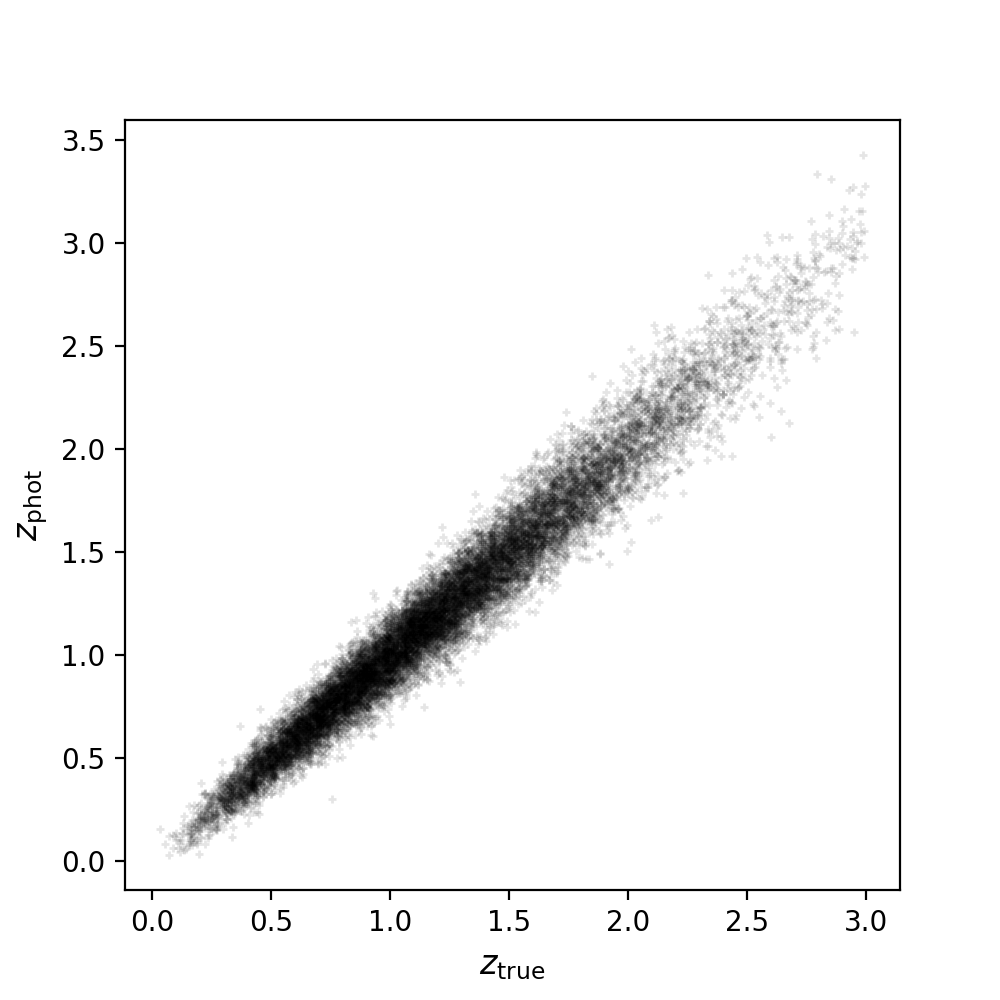
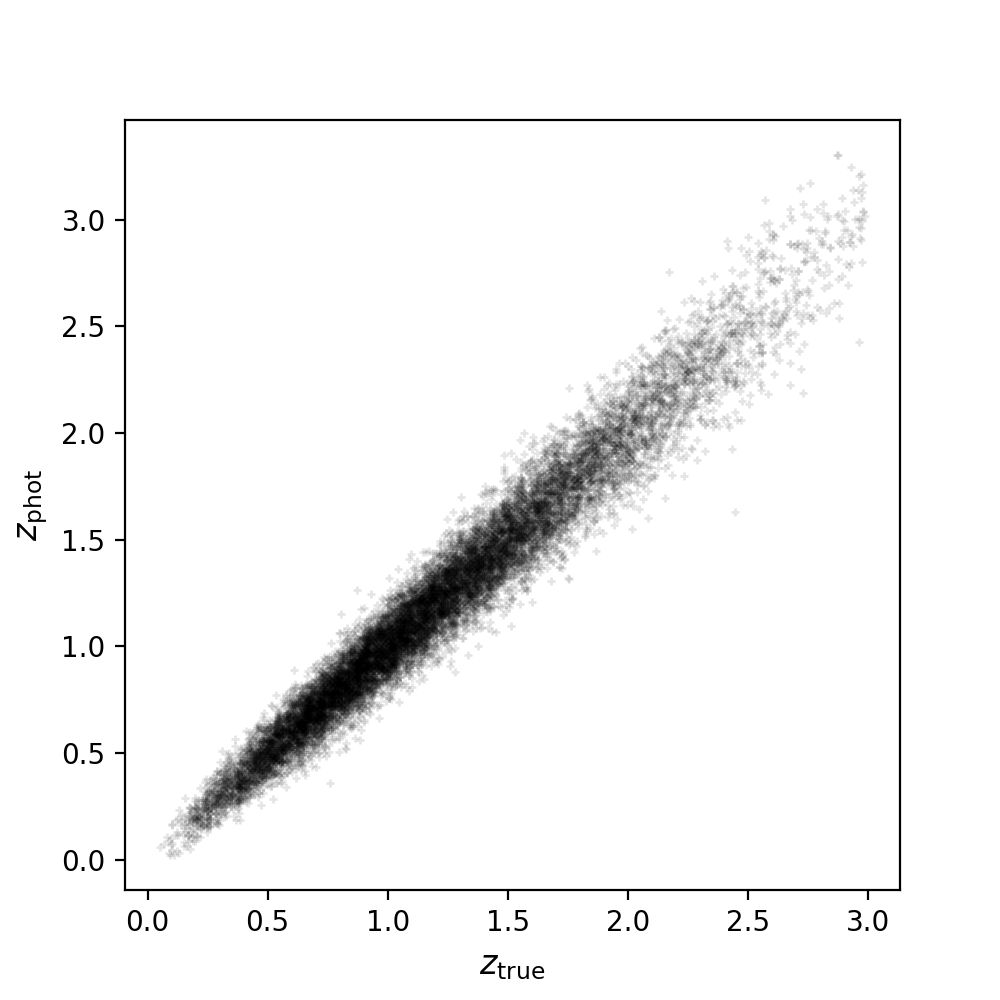
simpler example

diff --git a/examples/1_basic/photoz.py b/examples/1_basic/photoz.py
@@ -9,24 +9,16 @@ This example simulates galaxies with a simple photometric redshift model.
 # %%
 # Setup
 # -----
-# Set up a galaxy positions-only GLASS simulation.  It needs very little:
-# a way to obtain matter angular power spectra (here: CAMB) and a redshift
-# distribution of galaxies to sample from (here: uniform in volume).  Then add
-# a model for photometric redshifts with Gaussian errors.
+# The simplest galaxies-only GLASS simulation, sampling galaxies uniformly over
+# the sphere using some redshift distribution.  Then add a model for photometric
+# redshifts with Gaussian errors.
 
 import numpy as np
 import matplotlib.pyplot as plt
 
-# these are the GLASS imports: cosmology and the glass meta-module
-from cosmology import LCDM
+# these are the GLASS imports: only the glass meta-module
 from glass import glass
 
-# also needs camb itself to get the parameter object
-import camb
-
-
-# cosmology for the simulation
-cosmo = LCDM(h=0.7, Om=0.3)
 
 # basic parameters of the simulation
 nside = 128
@@ -42,15 +34,10 @@ phz_sigma_0 = 0.05
 z = np.linspace(0, 3, 301)
 dndz = n_arcmin2*glass.observations.smail_nz(z, 1.0, 2.2, 1.5)
 
-# set up CAMB parameters for matter angular power spectrum
-pars = camb.set_params(H0=100*cosmo.h, omch2=cosmo.Om*cosmo.h**2)
-
-# generators for a galaxies-only simulation
+# generators for a uniform galaxies simulation
 generators = [
     glass.sim.zspace(z[0], z[-1]+0.01, dz=0.25),
-    glass.camb.camb_matter_cl(pars, lmax),
-    glass.matter.lognormal_matter(nside),
-    glass.galaxies.gal_dist_fullsky(z, dndz),
+    glass.galaxies.gal_dist_uniform(z, dndz),
     glass.galaxies.gal_phz_gausserr(phz_sigma_0),
 ]
 
@@ -64,7 +51,7 @@ generators = [
 ztrue = np.empty(0)
 zphot = np.empty(0)
 
-# simulate and add galaxies in each matter shell to cube
+# simulate and add galaxies in each matter shell to arrays
 for shell in glass.sim.generate(generators):
     ztrue = np.append(ztrue, shell['gal_z'])
     zphot = np.append(zphot, shell['gal_z_phot'])

diff --git a/docs/examples/1_basic/photoz.rst b/docs/examples/1_basic/photoz.rst
@@ -23,16 +23,15 @@ Photometric redshifts
 
 This example simulates galaxies with a simple photometric redshift model.
 
-.. GENERATED FROM PYTHON SOURCE LINES 10-16
+.. GENERATED FROM PYTHON SOURCE LINES 10-15
 
 Setup
 -----
-Set up a galaxy positions-only GLASS simulation.  It needs very little:
-a way to obtain matter angular power spectra (here: CAMB) and a redshift
-distribution of galaxies to sample from (here: uniform in volume).  Then add
-a model for photometric redshifts with Gaussian errors.
+The simplest galaxies-only GLASS simulation, sampling galaxies uniformly over
+the sphere using some redshift distribution.  Then add a model for photometric
+redshifts with Gaussian errors.
 
-.. GENERATED FROM PYTHON SOURCE LINES 16-58
+.. GENERATED FROM PYTHON SOURCE LINES 15-45
 
 .. code-block:: default
 
@@ -40,16 +39,9 @@ a model for photometric redshifts with Gaussian errors.
     import numpy as np
     import matplotlib.pyplot as plt
 
-    # these are the GLASS imports: cosmology and the glass meta-module
-    from cosmology import LCDM
+    # these are the GLASS imports: only the glass meta-module
     from glass import glass
 
-    # also needs camb itself to get the parameter object
-    import camb
-
-
-    # cosmology for the simulation
-    cosmo = LCDM(h=0.7, Om=0.3)
 
     # basic parameters of the simulation
     nside = 128
@@ -65,15 +57,10 @@ a model for photometric redshifts with Gaussian errors.
     z = np.linspace(0, 3, 301)
     dndz = n_arcmin2*glass.observations.smail_nz(z, 1.0, 2.2, 1.5)
 
-    # set up CAMB parameters for matter angular power spectrum
-    pars = camb.set_params(H0=100*cosmo.h, omch2=cosmo.Om*cosmo.h**2)
-
-    # generators for a galaxies-only simulation
+    # generators for a uniform galaxies simulation
     generators = [
         glass.sim.zspace(z[0], z[-1]+0.01, dz=0.25),
-        glass.camb.camb_matter_cl(pars, lmax),
-        glass.matter.lognormal_matter(nside),
-        glass.galaxies.gal_dist_fullsky(z, dndz),
+        glass.galaxies.gal_dist_uniform(z, dndz),
         glass.galaxies.gal_phz_gausserr(phz_sigma_0),
     ]
 
@@ -85,13 +72,13 @@ a model for photometric redshifts with Gaussian errors.
 
 
 
-.. GENERATED FROM PYTHON SOURCE LINES 59-62
+.. GENERATED FROM PYTHON SOURCE LINES 46-49
 
 Simulation
 ----------
 Keep all simulated true and photometric redshifts.
 
-.. GENERATED FROM PYTHON SOURCE LINES 62-73
+.. GENERATED FROM PYTHON SOURCE LINES 49-60
 
 .. code-block:: default
 
@@ -100,7 +87,7 @@ Keep all simulated true and photometric redshifts.
     ztrue = np.empty(0)
     zphot = np.empty(0)
 
-    # simulate and add galaxies in each matter shell to cube
+    # simulate and add galaxies in each matter shell to arrays
     for shell in glass.sim.generate(generators):
         ztrue = np.append(ztrue, shell['gal_z'])
         zphot = np.append(zphot, shell['gal_z_phot'])
@@ -113,7 +100,7 @@ Keep all simulated true and photometric redshifts.
 
 
 
-.. GENERATED FROM PYTHON SOURCE LINES 74-80
+.. GENERATED FROM PYTHON SOURCE LINES 61-67
 
 Plots
 -----
@@ -122,7 +109,7 @@ Make a couple of typical photometric redshift plots.
 First the :math:`z`-vs-:math:`z` plot across the entire sample.  The simple
 Gaussian error model only has the diagonal but no catastrophic outliers.
 
-.. GENERATED FROM PYTHON SOURCE LINES 80-87
+.. GENERATED FROM PYTHON SOURCE LINES 67-74
 
 .. code-block:: default
 
@@ -145,13 +132,13 @@ Gaussian error model only has the diagonal but no catastrophic outliers.
 
 
 
-.. GENERATED FROM PYTHON SOURCE LINES 88-91
+.. GENERATED FROM PYTHON SOURCE LINES 75-78
 
 Now define a number of photometric redshift bins.  They are chosen by the
 :func:`~glass.observations.equal_dens_zbins` function to produce the same
 number of galaxies in each bin.
 
-.. GENERATED FROM PYTHON SOURCE LINES 91-95
+.. GENERATED FROM PYTHON SOURCE LINES 78-82
 
 .. code-block:: default
 
@@ -166,7 +153,7 @@ number of galaxies in each bin.
 
 
 
-.. GENERATED FROM PYTHON SOURCE LINES 96-101
+.. GENERATED FROM PYTHON SOURCE LINES 83-88
 
 After the photometric bins are defined, make histograms of the *true* redshift
 distribution :math:`n(z)` using the *photometric* redshifts for binning.
@@ -174,7 +161,7 @@ distribution :math:`n(z)` using the *photometric* redshifts for binning.
 Use the :func:`~glass.observations.tomo_nz_gausserr()` to get the expected
 tomographic redshift distributions using the same Gaussian error model.
 
-.. GENERATED FROM PYTHON SOURCE LINES 101-112
+.. GENERATED FROM PYTHON SOURCE LINES 88-99
 
 .. code-block:: default
 
@@ -204,7 +191,7 @@ tomographic redshift distributions using the same Gaussian error model.
 
 .. rst-class:: sphx-glr-timing
 
-   **Total running time of the script:** ( 0 minutes  12.513 seconds)
+   **Total running time of the script:** ( 0 minutes  0.534 seconds)
 
 
 .. _sphx_glr_download_examples_1_basic_photoz.py:
